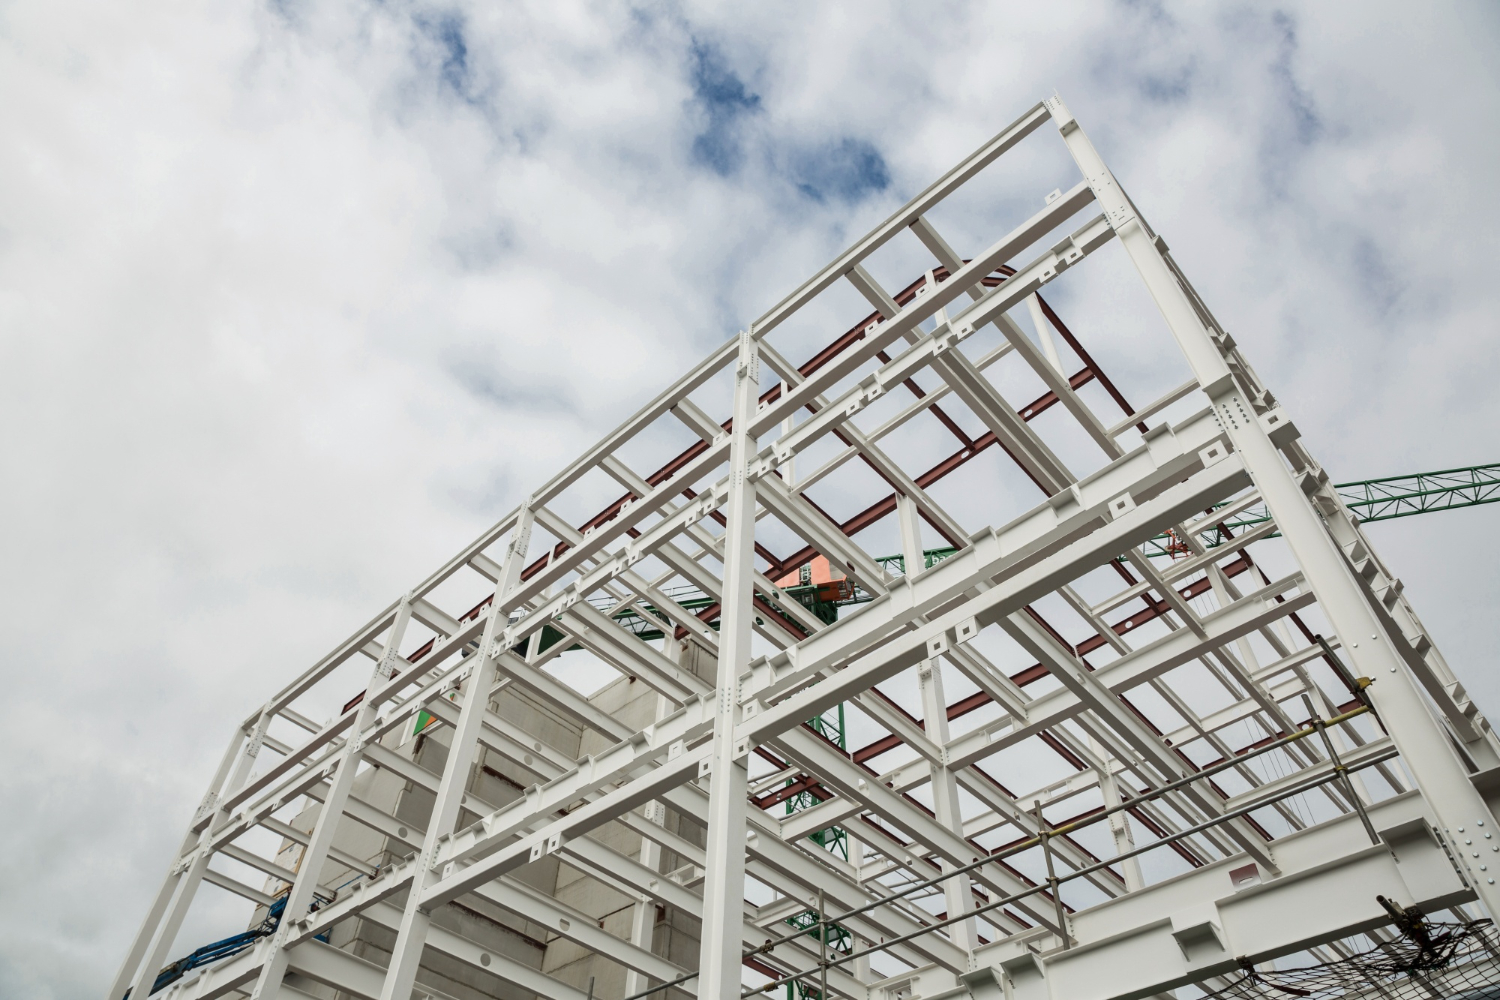
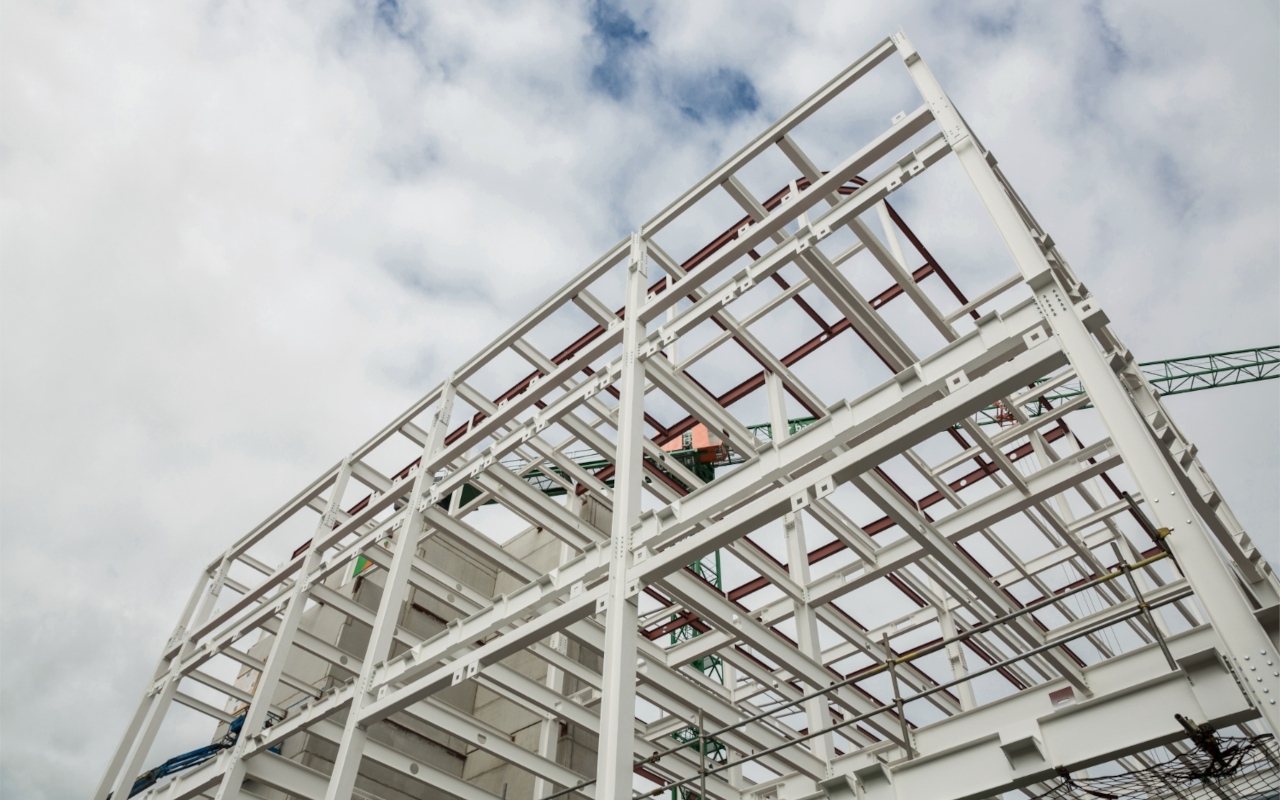
correcoes de slider

diff --git a/style.css b/style.css
@@ -10,8 +10,8 @@
     --secundario: 'Oswald', sans-serif;
 
     --verde-primario: rgb(19, 82, 3);
-    --tom-branco: #EEEEEE;
-    --tom-preto: #061509;
+    --tom-branco: #FFF9EC;
+    --tom-preto: #1C1C1C;
 }
 
 * {
@@ -33,7 +33,7 @@ body {
 /* Geral */
 section {
     padding-top: 40px;
-    padding-bottom: 120px;
+    padding-bottom: 40px;
 }
 
 h2 {
@@ -148,7 +148,7 @@ nav li a:hover {
 .slider img {
     width: 100%;
     height: auto;
-    max-height: 850px;
+    max-height: 600px;
     display: none;
     object-fit: cover;
 }
@@ -174,7 +174,7 @@ img.displaySlide {
 }
 
 .slider button:hover {
-    opacity: 1;
+    opacity: 1; 
 }
 
 .slider-prev {
@@ -196,7 +196,7 @@ img.displaySlide {
 hr {
     width: 35%;
     min-width: 250px;
-    margin: 30px auto;
+    margin: 0 auto 30px auto;
     border-top: 2px solid var(--verde-primario);
 }
 
@@ -227,7 +227,7 @@ hr {
     display: flex;
     flex-direction: column;
     align-items: flex-start;
-    min-width: 300px;
+    min-width: 310px;
     padding: 10px;
     margin: 20px 0;
     flex: 1;
@@ -248,7 +248,7 @@ hr {
 }
 
 .info-box p {
-    font-size: 1.2em;
+    font-size: 1    em;
     margin-top: 10px;
     text-align: justify;
 }

diff --git a/index.html b/index.html
@@ -74,7 +74,7 @@
                             <img src="imgs/sustainability.svg" alt="">
                             <h3>Sustentabilidade</h3>
                         </div>
-                        <p>Construímos com o futuro em mente. Nosso compromisso com a sustentabilidade é refletido em cada decisão que tomamos. Buscamos integrar práticas sustentáveis em nossos projetos, utilizando materiais e métodos que minimizam o impacto ambiental e promovem o desenvolvimento responsável. Acreditamos que a engenharia deve contribuir para um mundo mais sustentável.</p>
+                        <p>Construímos com o futuro em mente. O nosso compromisso com a sustentabilidade é refletido em cada decisão que tomamos. Buscamos integrar práticas sustentáveis em nossos projetos, utilizando materiais e métodos que minimizam o impacto ambiental e promovem o desenvolvimento responsável. Acreditamos que a engenharia deve contribuir para um mundo mais sustentável.</p>
                     </div>
                 </div>
             </section>

diff --git a/script.js b/script.js
@@ -31,6 +31,11 @@ function initializeSlider(){
     }
 }
 
+function resetSliderInterval() {
+    clearInterval(intervalId); // Clear the existing interval
+    intervalId = setInterval(nextSlide, 4000); // Start a new interval
+}
+
 function showSlide(index){
     if(index >= slides.length){
         slideIndex = 0;
@@ -48,9 +53,11 @@ function showSlide(index){
 function prevSlide(){
     slideIndex --;
     showSlide(slideIndex);
+    resetSliderInterval()
 }
 
 function nextSlide(){
     slideIndex++;
     showSlide(slideIndex);
+    resetSliderInterval()
 }
